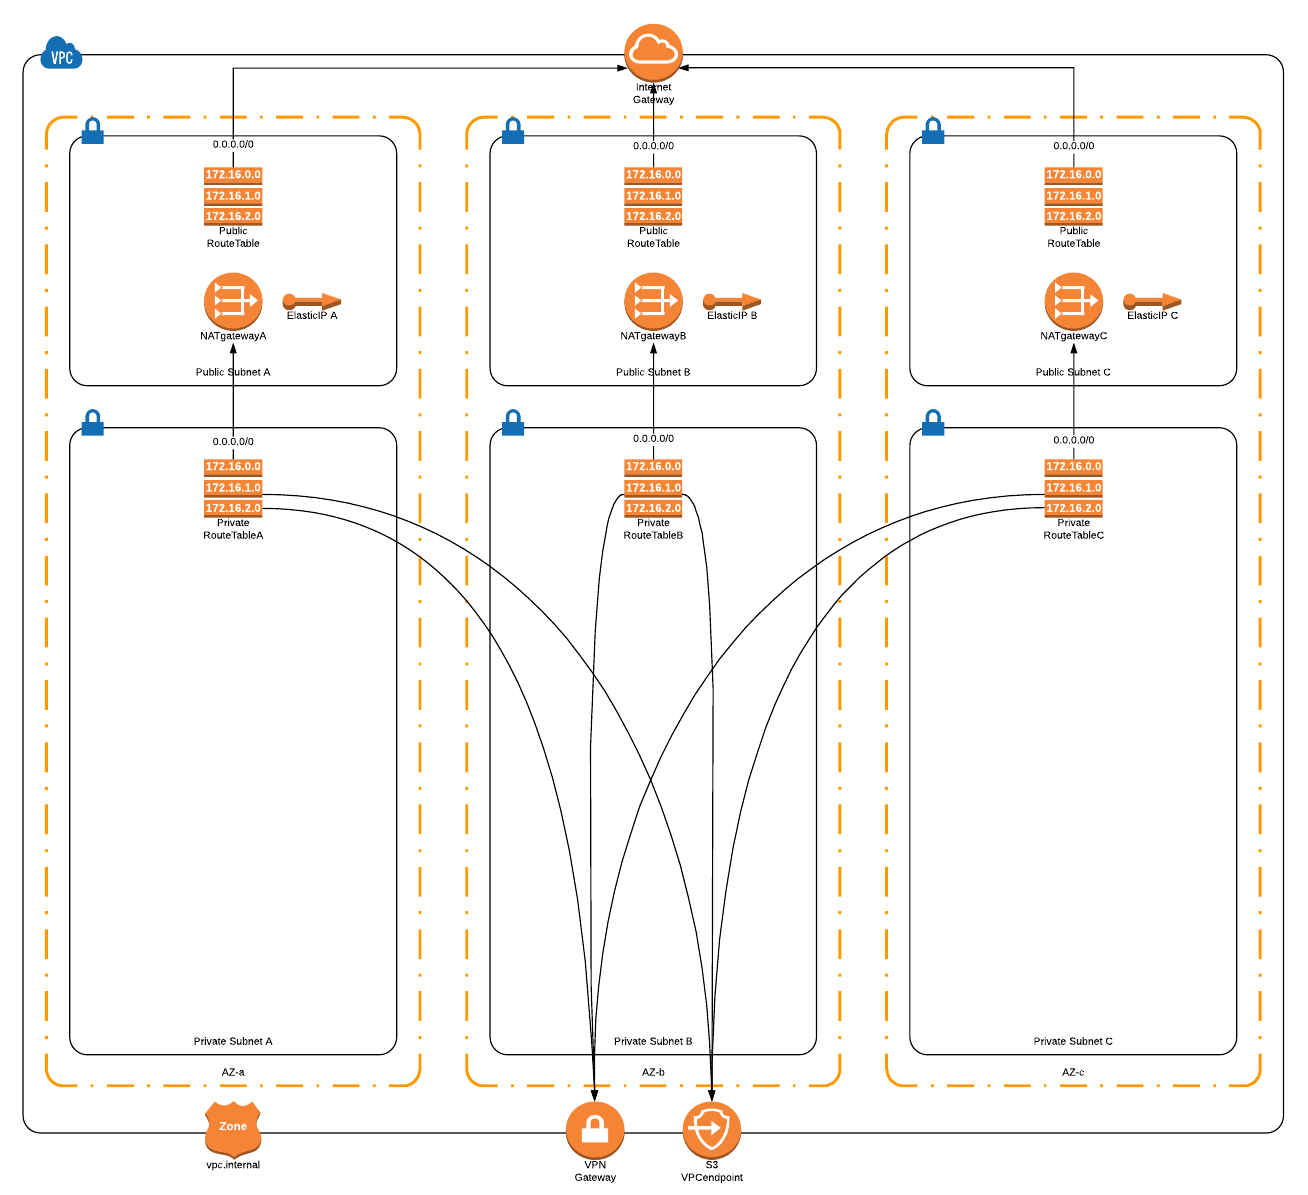
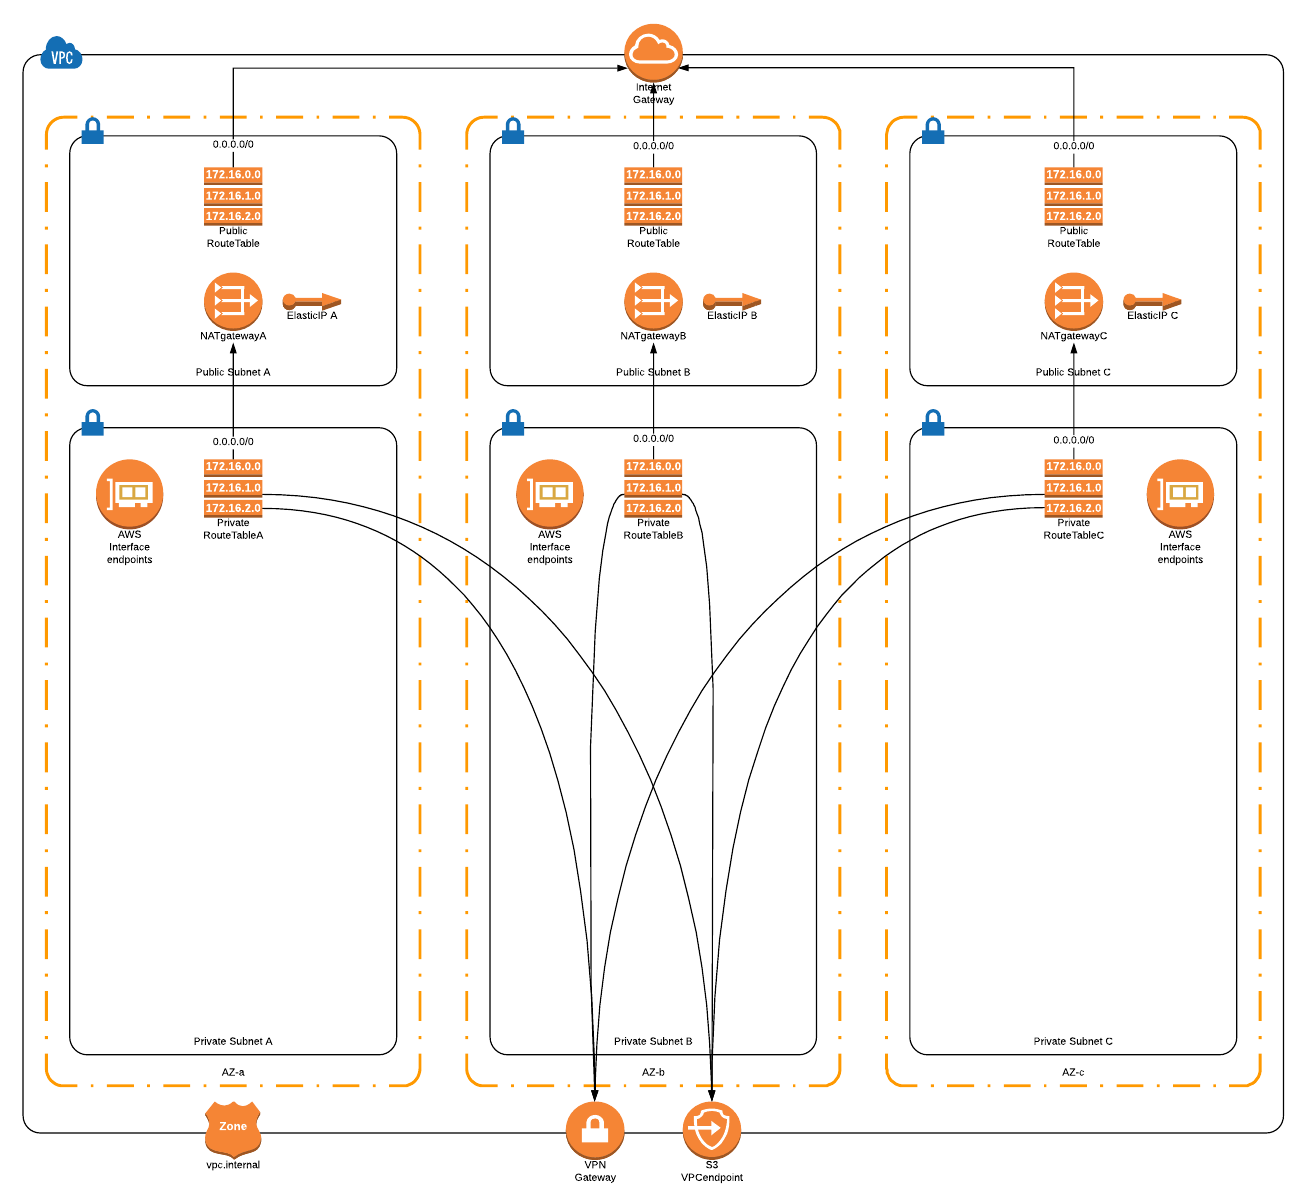
option to create vpc interfaces endpoint for SSM services

diff --git a/README.md b/README.md
@@ -14,6 +14,11 @@ AWS VPC network template
 * Routing from private subnets to internet via NAT gateway in same AZ
 * VPN gateway and routing for private subnets
 * VPC S3 end-point and routing for every subnet
+* Option for VPC interface end-points for private subnets
+   * com.amazonaws.region.ssm
+   * com.amazonaws.region.ec2
+   * com.amazonaws.region.ssmmessages
+   * com.amazonaws.region.ec2messages
 * Internal R53 zone
 * Outputs as
    * Cloudformation stack exports
